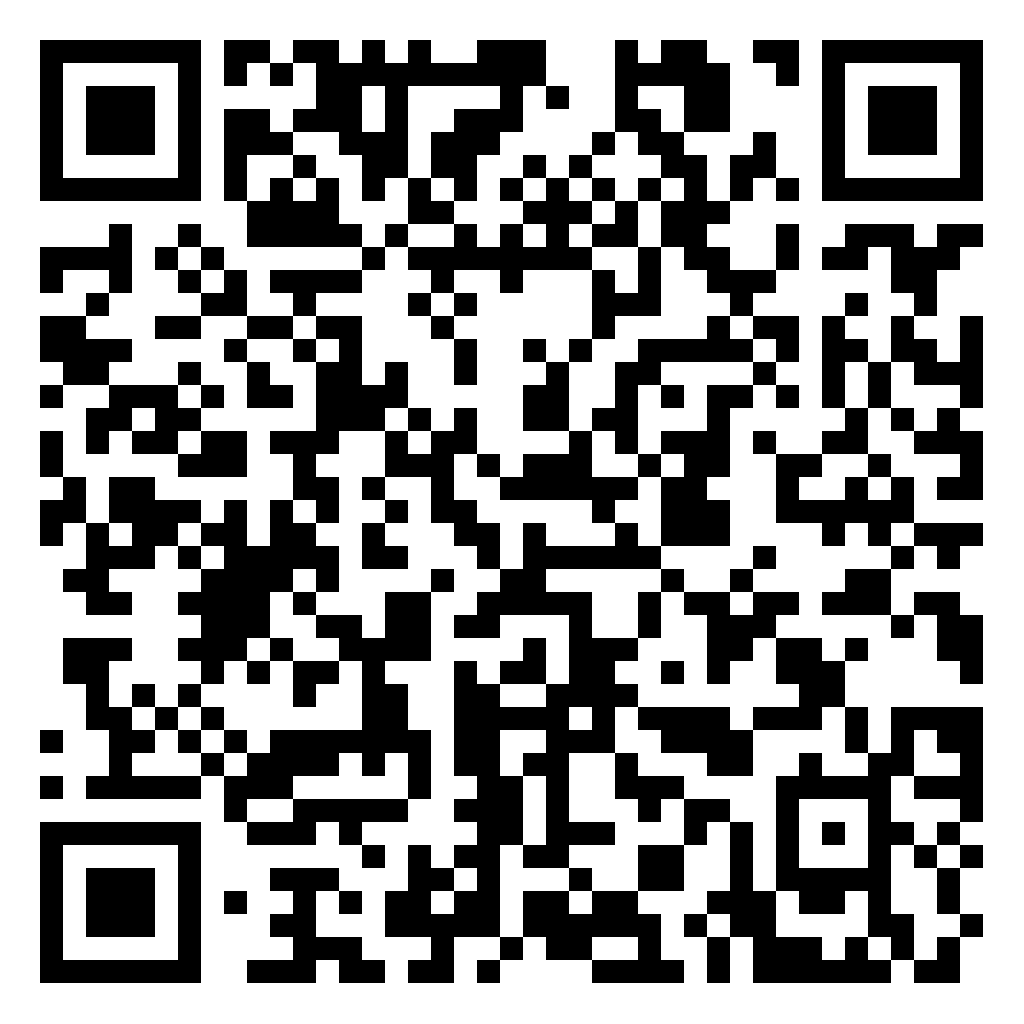
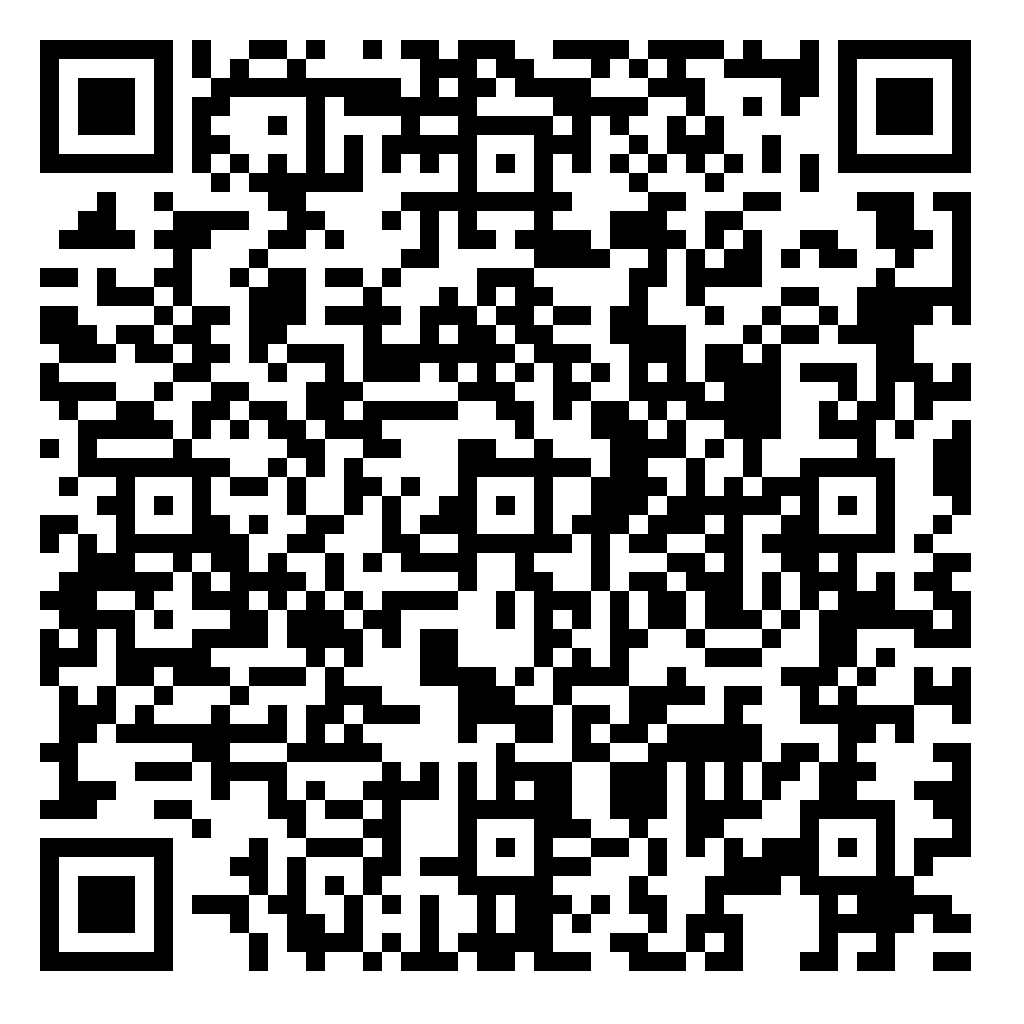
:bug: Fix: correcao na inicialização do modo treino
- mudança do terabox para mediafire por solicitacao do grupo

diff --git a/src/screens/assistente.tsx b/src/screens/assistente.tsx
@@ -71,13 +71,28 @@ export default function App() {
   const [buttonsVisible, setButtonsVisible] = useState(false);
   const [isDescriptionRequired, setIsDescriptionRequired] = useState(false);
   const [isReadyToSend, setIsReadyToSend] = useState(false);
+ 
   const trainVariations = [
-    'treinar', 'quero treinar', 'vamos treinar', 'preciso de treino',
-    'me ajude a treinar', 'treino',
-    'quero começar a treinar', 'quero continuar o treinamento', 'quero um treino mais avançado',
-    'quero treinar esta habilidade', 'quero fazer um exercício', 'quero um tutorial',
-    'quero treinar todos os dias', 'quero treinar por 30 minutos', 'quero um treino rápido'
-  ];
+    'treinar', 'Treinar', 'quero treinar', 'Quero treinar', 'vamos treinar', 'Vamos treinar',
+    'preciso de treino', 'Preciso de treino', 'me ajude a treinar', 'Me ajude a treinar', 
+    'treino', 'Treino', 'quero começar a treinar', 'Quero começar a treinar', 
+    'quero continuar o treinamento', 'Quero continuar o treinamento', 
+    'quero um treino mais avançado', 'Quero um treino mais avançado', 
+    'quero treinar esta habilidade', 'Quero treinar esta habilidade', 
+    'quero fazer um exercício', 'Quero fazer um exercício', 
+    'quero um tutorial', 'Quero um tutorial', 
+    'quero treinar todos os dias', 'Quero treinar todos os dias', 
+    'quero treinar por 30 minutos', 'Quero treinar por 30 minutos', 
+    'quero um treino rápido', 'Quero um treino rápido', 
+    'vamos começar o treino', 'Vamos começar o treino', 
+    'como treinar', 'Como treinar', 'gostaria de treinar', 'Gostaria de treinar', 
+    'pode me ajudar a treinar', 'Pode me ajudar a treinar', 
+    'exercício de treino', 'Exercício de treino', 'quero melhorar meu treino', 
+    'Quero melhorar meu treino', 'preciso de ajuda para treinar', 
+    'Preciso de ajuda para treinar', 'dicas de treino', 'Dicas de treino', 
+    'pronto para treinar', 'Pronto para treinar', 'vou treinar', 'Vou treinar'
+];
+
   const [isTrainingMode, setIsTrainingMode] = useState(false);
   // Mapeamento das subopções
   const subOptionsMapping = {
@@ -426,13 +441,26 @@ export default function App() {
   const isTrainRequest = (message: string) => {
     // Verifica se a mensagem do usuário contém uma palavra-chave para treinamento
     const trainVariations = [
-      'treinar', 'quero treinar', 'vamos treinar', 'preciso de treino',
-      'me ajude a treinar', 'treino',
-      'quero começar a treinar', 'quero continuar o treinamento', 'quero um treino mais avançado',
-      'quero treinar esta habilidade', 'quero fazer um exercício', 'quero um tutorial',
-      'quero treinar todos os dias', 'quero treinar por 30 minutos', 'quero um treino rápido'
-    ];
-
+      'treinar', 'Treinar', 'quero treinar', 'Quero treinar', 'vamos treinar', 'Vamos treinar',
+      'preciso de treino', 'Preciso de treino', 'me ajude a treinar', 'Me ajude a treinar', 
+      'treino', 'Treino', 'quero começar a treinar', 'Quero começar a treinar', 
+      'quero continuar o treinamento', 'Quero continuar o treinamento', 
+      'quero um treino mais avançado', 'Quero um treino mais avançado', 
+      'quero treinar esta habilidade', 'Quero treinar esta habilidade', 
+      'quero fazer um exercício', 'Quero fazer um exercício', 
+      'quero um tutorial', 'Quero um tutorial', 
+      'quero treinar todos os dias', 'Quero treinar todos os dias', 
+      'quero treinar por 30 minutos', 'Quero treinar por 30 minutos', 
+      'quero um treino rápido', 'Quero um treino rápido', 
+      'vamos começar o treino', 'Vamos começar o treino', 
+      'como treinar', 'Como treinar', 'gostaria de treinar', 'Gostaria de treinar', 
+      'pode me ajudar a treinar', 'Pode me ajudar a treinar', 
+      'exercício de treino', 'Exercício de treino', 'quero melhorar meu treino', 
+      'Quero melhorar meu treino', 'preciso de ajuda para treinar', 
+      'Preciso de ajuda para treinar', 'dicas de treino', 'Dicas de treino', 
+      'pronto para treinar', 'Pronto para treinar', 'vou treinar', 'Vou treinar'
+  ];
+  
     return trainVariations.some(variation => message.toLowerCase().includes(variation));
   };
 
@@ -672,7 +700,6 @@ export default function App() {
 
   const handleInterviewEnd = async (genAI: any, prevMessages: any) => {
     console.log("Entrou na função handleInterviewEnd");
-
     try {
       console.log("Gerando prompt de feedback...");
       const feedbackPrompt = generateFeedbackPrompt(interviewState);

diff --git a/README.md b/README.md
@@ -128,7 +128,7 @@ Para fazer essa mudança:
 
 Aqui você pode encontrar as instruções para baixar o aplicativo.
 
-[Ir para a seção de download](https://terabox.com/s/1CpJpI5gVVfV15tY7kixH3A)
+[Ir para a seção de download](https://www.mediafire.com/file/05w5t8gj6jr5e7s/Sias_V2.3.3.apk/file)
 
 ou escaneá o QR Code abaixo:
 ![QR Code](/img/qrcode.png)
